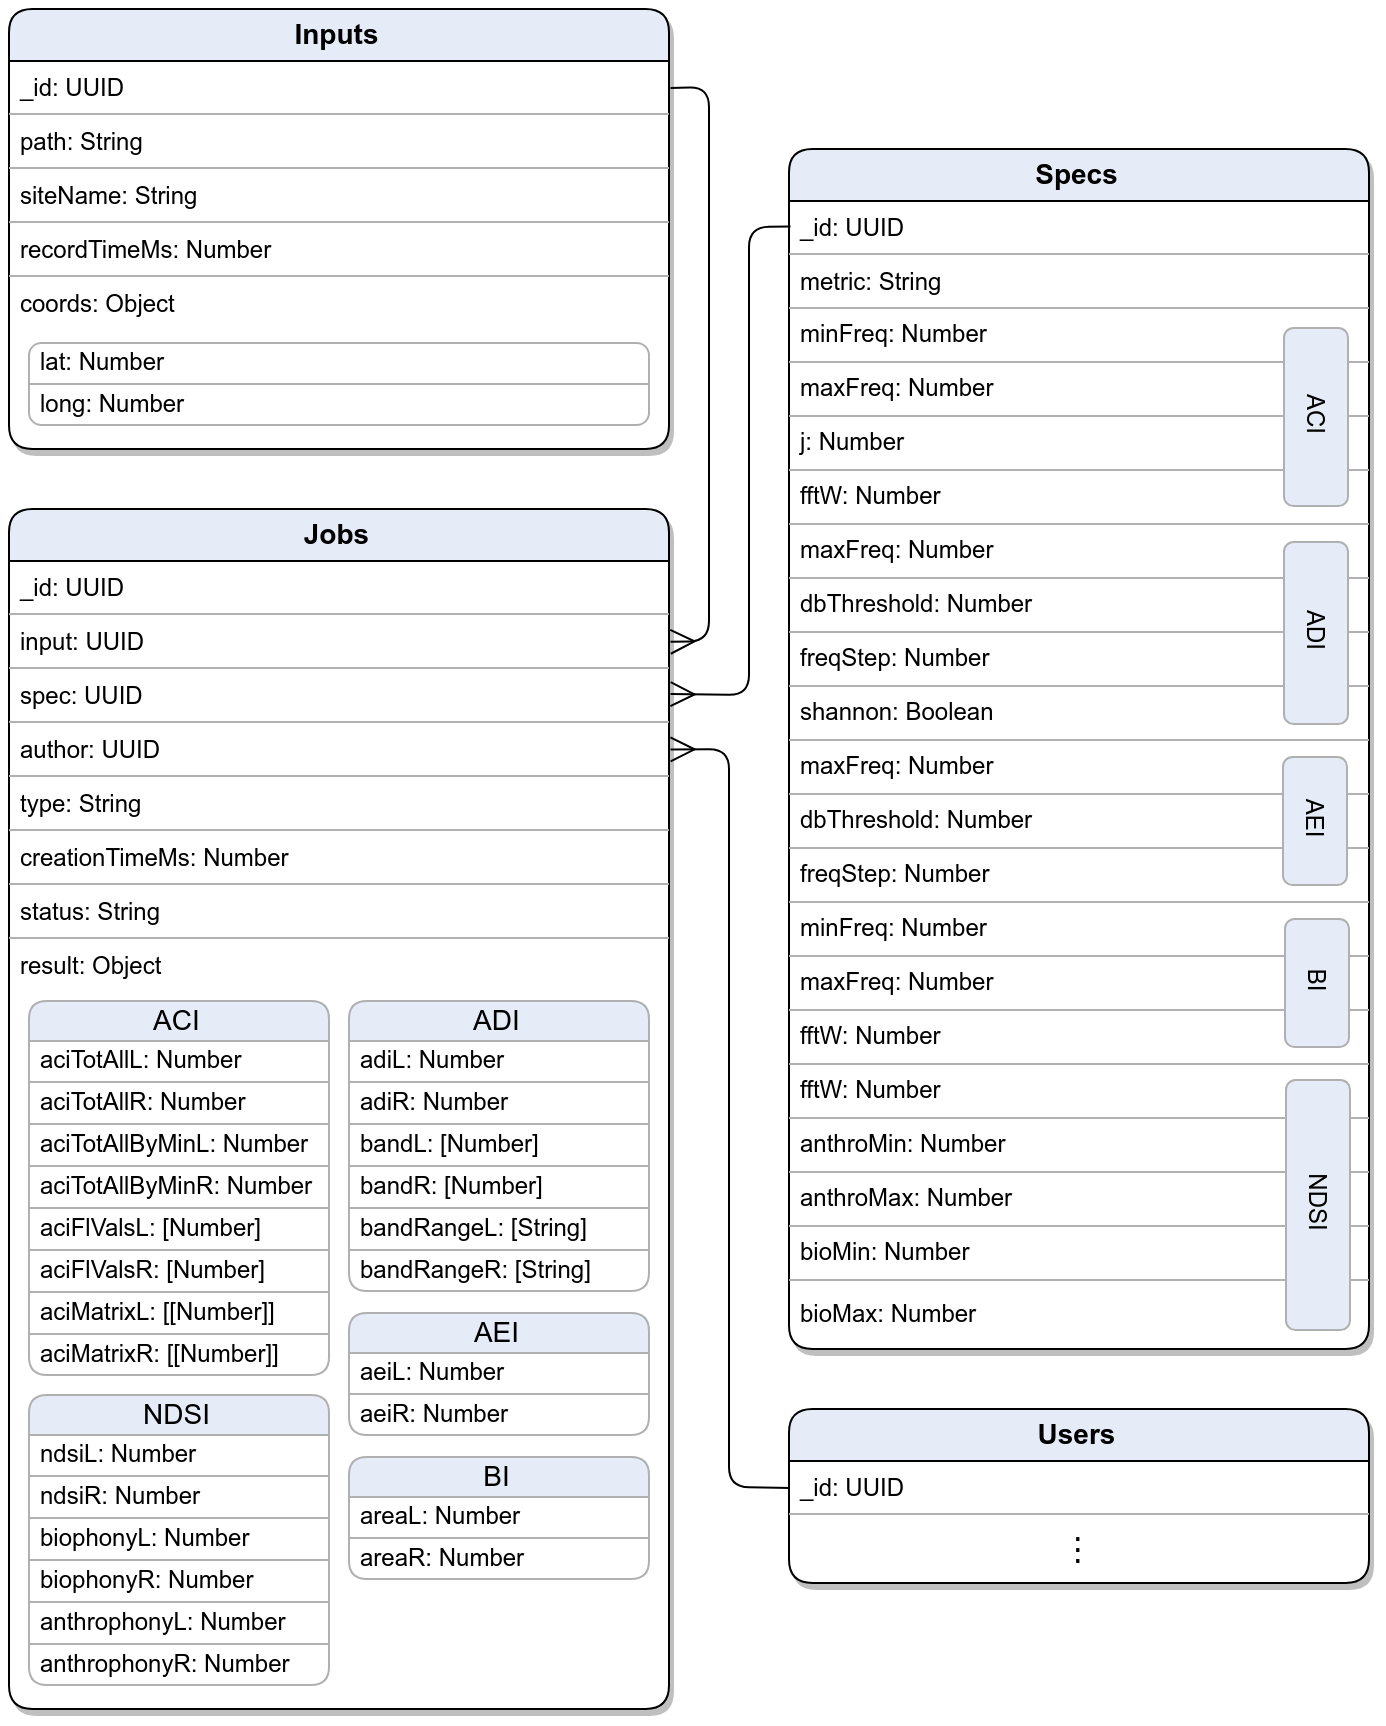
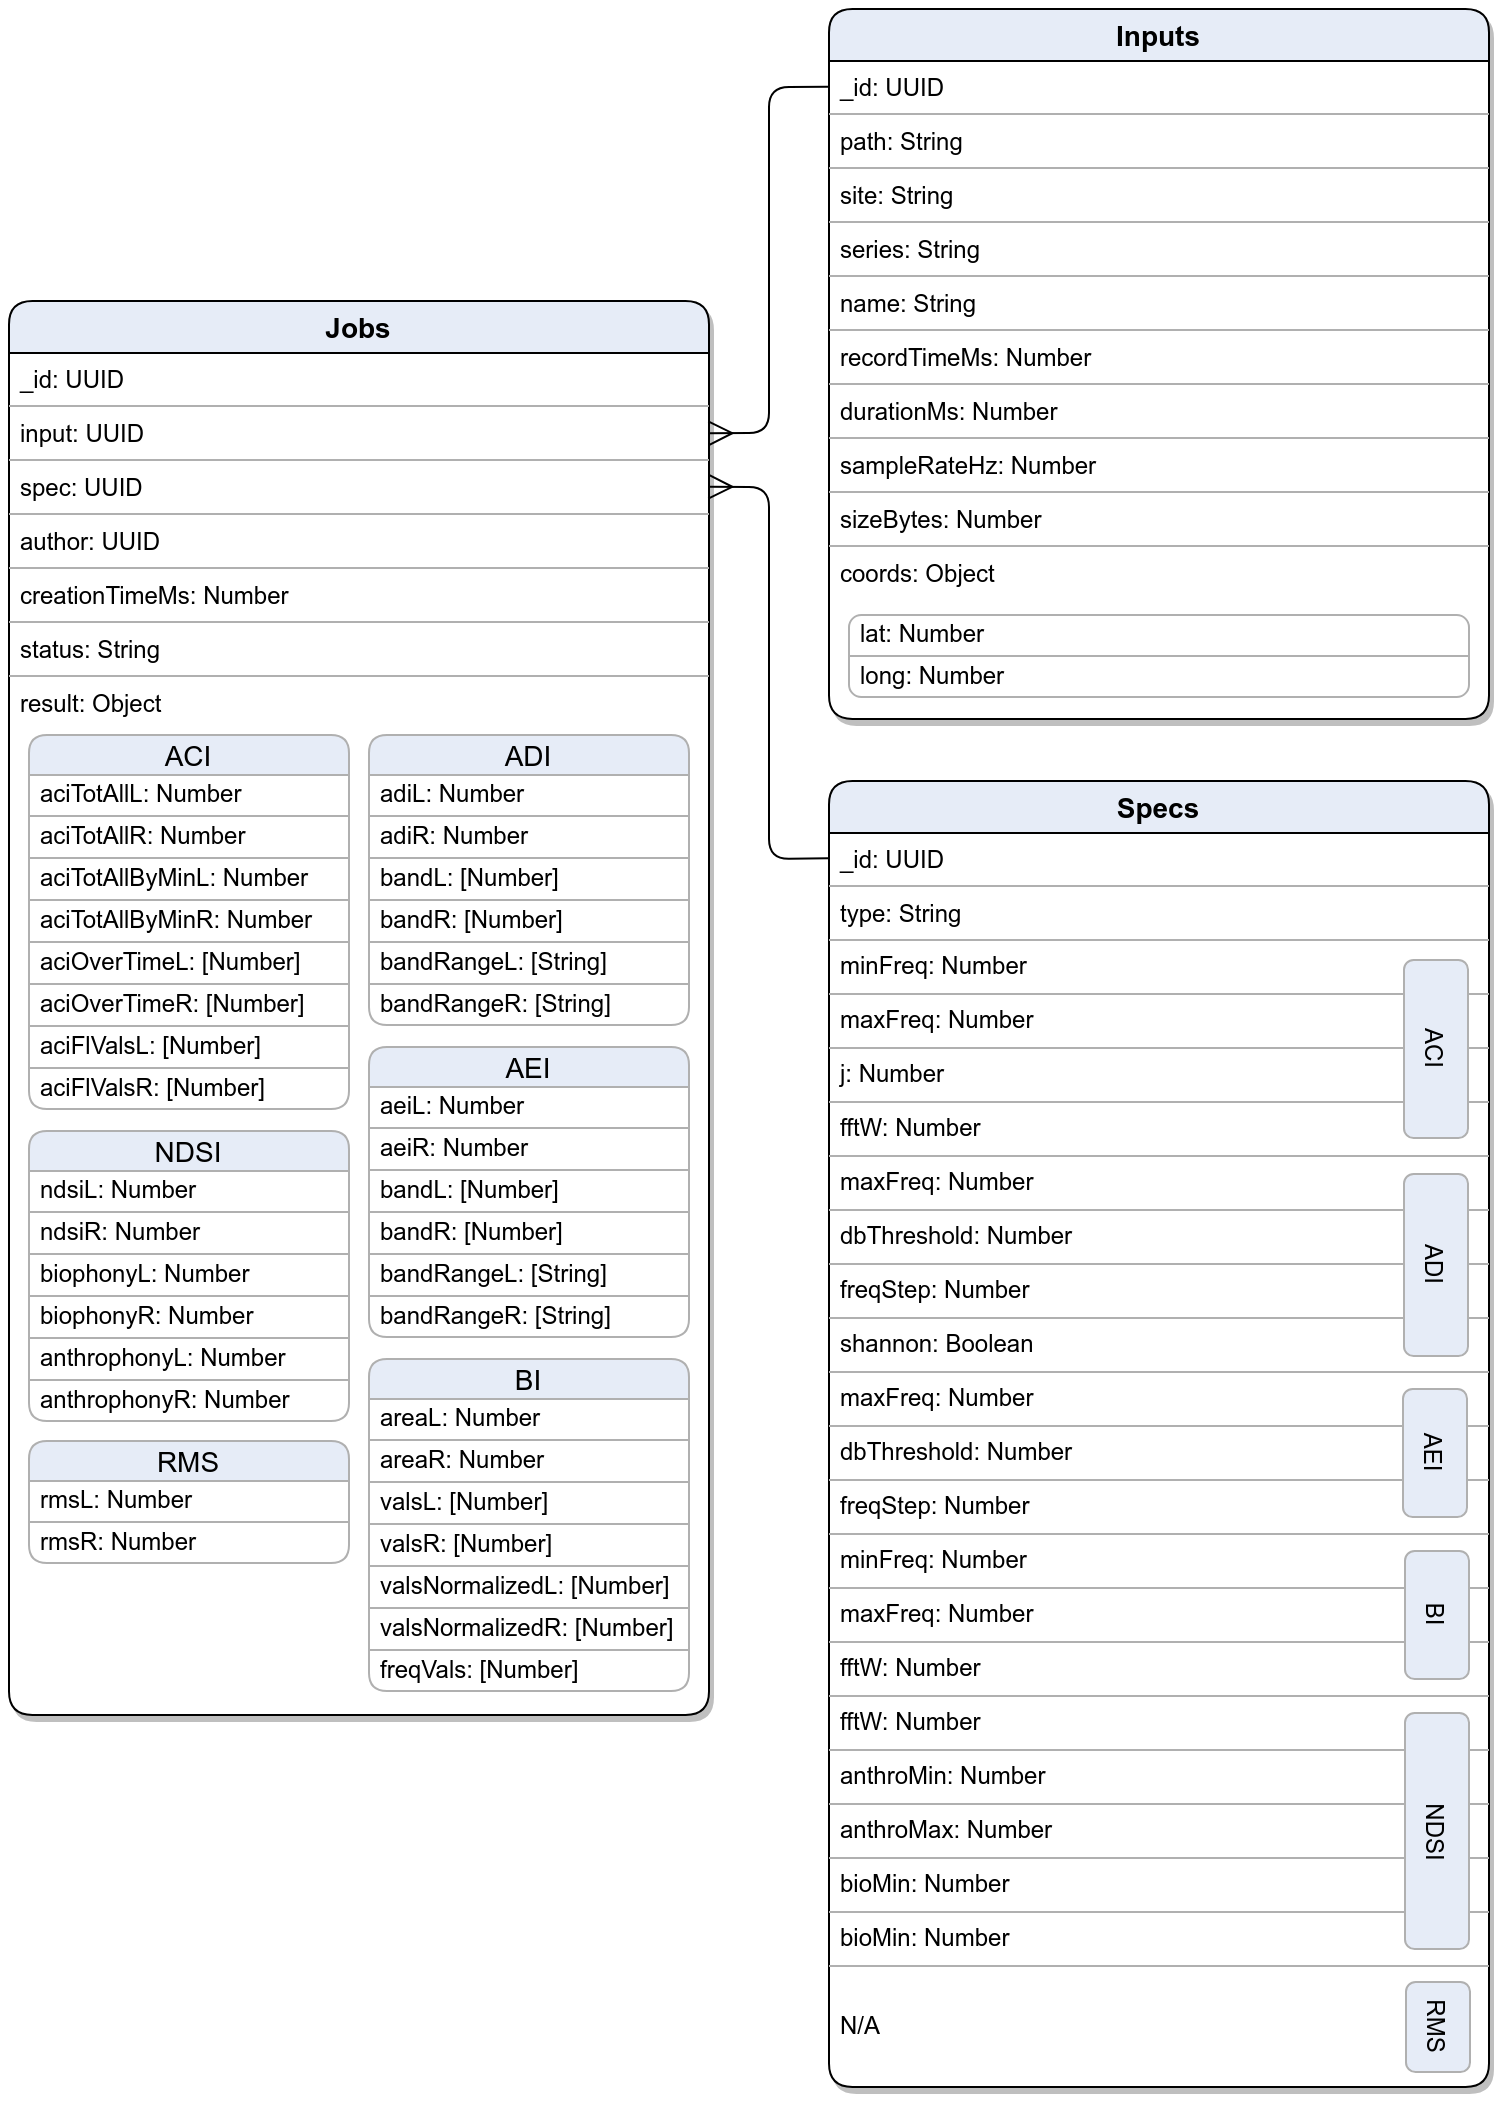
Docs: DB section updates

Changed region(s): [[0.0, 0.0, 0.9928, 1.0]]

diff --git a/docs/design document/tech/database.tex b/docs/design document/tech/database.tex
@@ -3,21 +3,24 @@
 \begin{center}
   \includegraphics[width=\textwidth]{DatabaseOverview} \\[12pt]
 \end{center}
-The diagram above represents the database implementation that will be used in the server application at a high level---more detailed representations will follow in the sections below. Note that while this is an entity-relationship diagram, a type of diagram normally used to represent relational databases, a non-relational database (MongoDB) will be used for this application. The ERD, while an imperfect representation for a non-relational database, simply provides a convenient way of demonstrating the format in which information will be stored in collections and the ways in which these collections will relate to one another.\par
-There are five collections that will be used to store all information in the database: Jobs, Inputs, Specs, Users, and Groups. The Jobs collection is at the core of the design, as jobs are where the action happens. This collection contains the UUID\textquotesingle s of each relevant document from other collections, metadata about each job, and, upon completion of the job, the resulting output from the analysis performed. The Inputs collection contains information about the WAV audio files to be processed by each job, including the location in which each of the files is stored on the server. The Specs collection holds information about how to process each job, namely, the list of parameters needed for each metric to be run. The Users and Groups collections contain information necessary in keeping track of users and groups.\par
+The diagram above represents the database implementation that will be used in
+the server application at a high level---more detailed representations will
+follow in the sections below. Note that while this is an entity-relationship
+diagram (ERD), a type of diagram normally used to represent relational databases, a non-relational database (MongoDB) will be used for this application in conjunction with AWS Cognito to hold user account information. The ERD, while an imperfect representation for a non-relational database, simply provides a convenient way of demonstrating the format in which information will be stored in collections and the ways in which these collections will relate to one another.\par
+There are three collections that will be used to store all information in the database: Jobs, Inputs, and Specs, while Users will be stored in a Cognito User Pool. The Jobs collection is at the core of the design, as Jobs are where the action happens. This collection contains the UUID\textquotesingle s of each relevant document from other collections, metadata about each Job, and, upon completion of the Job, the resulting output from the analysis performed. The Inputs collection contains information about the WAV audio files to be processed by each Job, including the location in which each of the files is stored on the server. The Specs collection holds information about how to process each Job, namely, the list of parameters needed for each metric to be run. The Users ``collection'' (a Cognito User Pool) contains information necessary in keeping track of users.\par
 The database is implemented using Mongoose, which allows for a schema-based object modeling approach to designing the MongoDB database and validating its documents. Mongoose\textquotesingle s capabilities play a vital role in the database implementation, as the object modeling features allow for inheritance between schemas, and this can be seen in both the Job and Spec models as shown in the next section.
 
 \subsubsection{Jobs, Inputs, \& Specifications}
 \begin{center}
   \includegraphics[width=\textwidth]{DatabaseJobs} \\[12pt]
 \end{center}
-It should be clear from the diagram that the database design is focused around the Jobs collection, and this makes sense given that jobs are where the action takes place. The Jobs collection connects to the Inputs, Specs, and Users collections via the UUID\textquotesingle s of a document from each of these being stored in each job document. Additionally, the metadata of when each job was initially created is stored in \codesnip{creationTimeMs}. The \codesnip{status} of each job is an enumerative String that may hold one of the following values: \codesnip{"queued"}, \codesnip{"processing"}, \codesnip{"finished"}, \codesnip{"failed"}, or \codesnip{"cancelled"}. Upon the completion of the processing phase of a job (marked by a \codesnip{status} of \codesnip{"finished"}), the \codesnip{result} Object will be populated with the results of each \codesnip{type} of job. The possibilities can be seen above.\par
-It is important to note the way in which the different types of jobs are able to be stored in the same collection, as differences in job type contain variations on the Objects stored in the \codesnip{result}. This is done by a Mongoose\textquotesingle s feature called a \textit{discriminator}. Discriminators are what enable inheritance between different Mongoose models, and in both the Job and Spec models, they are used to define each ``child'' model. For example, while we have the ``parent'' model of Job, we also have the AciJob, NdsiJob, and so on, that inherit from it. Likewise, a similar approach is taken with the Spec models. The result is that each child model is stored in the same collection as those that share the same parent, and this provides the benefit of being able to regard only that collection when pulling information from the database.\par
-The Specs collection represents the parameters used in each job. These parameters are specific to each metric being calculated by the job. Keeping these parameters separate from each job allows for reusability in the sense that if a user wants to run the same parameters on multiple inputs, all he or she must do is create an identical job with a different input, rather than defining the parameters each time.
+It should be clear from the diagram that the database design is focused around the Jobs collection, and this makes sense given that Jobs are where the action takes place. The Jobs collection connects to the Inputs, and Specs collections via the UUID\textquotesingle s of a document from each of these being stored in each Job document. Additionally, the metadata of when each Job was initially created is stored in \codesnip{creationTimeMs}. The \codesnip{status} of each Job is an enumerative String that may hold one of the following values: \codesnip{"queued"}, \codesnip{"processing"}, \codesnip{"finished"}, \codesnip{"failed"}, or \codesnip{"cancelled"}. Upon the completion of the processing phase of a Job (marked by a \codesnip{status} of \codesnip{"finished"}), the \codesnip{result} Object will be populated with the results of each \codesnip{type} of Job. The possibilities for each Job\textquotesingle s \codesnip{result}, based on the \codesnip{type} of Spec used, can be seen above.\par
+It is important to note the way in which the different types of Jobs are able to be stored in the same collection, as differences in Job type contain variations on the Objects stored in the \codesnip{result}. This is done by a Mongoose\textquotesingle s feature called a \textit{discriminator}. Discriminators are what enable inheritance between different Mongoose models, and in both the Job and Spec models, they are used to define each ``child'' model. For example, while we have the ``parent'' model of Job, we also have the AciJob, NdsiJob, and so on, that inherit from it. Likewise, a similar approach is taken with the Spec models. The result is that each child model is stored in the same collection as those that share the same parent, and this provides the benefit of being able to regard only that collection when pulling information from the database.\par
+The Specs collection represents the parameters used in each Job. These parameters are specific to each metric being calculated by the Job. Keeping these parameters separate from each Job allows for reusability in the sense that if a user wants to run the same parameters on multiple inputs, all he or she must do is create an identical Job with a different input, rather than defining the parameters each time.
 
 \subsubsection{Users \& Groups}
 \begin{center}
   \includegraphics[width=\textwidth]{DatabaseUsers} \\[12pt]
 \end{center}
-While the heavy-lifting of user authentication will be handled by AWS Cognito, it can still be useful to store some pieces of user data in the database. For example, once authenticated, a user then has access to his or her list of favorite specifications, which can be used in the client application to simplify the creation of new jobs. The Users collection is where this kind of information will be stored.\par
+While the heavy-lifting of user authentication will be handled by AWS Cognito, it can still be useful to store some pieces of user data in the database. For example, once authenticated, a user then has access to his or her list of favorite specifications, which can be used in the client application to simplify the creation of new Jobs. The Users collection is where this kind of information will be stored.\par
 Users can also be a part of one or more groups, or create a group. If a user creates a group, they are added as the admin of the group. An admin of a group can then add more users to also be admins. Groups have a list of members as well, and this references the Users collection.\par
